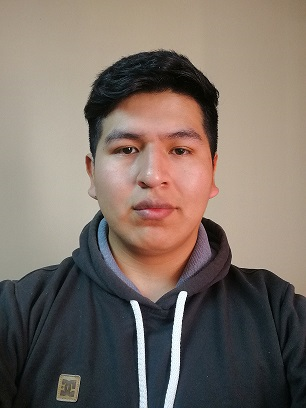
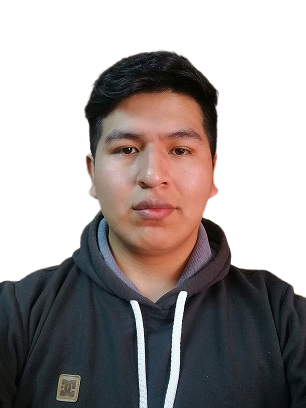
medium about

diff --git a/src/sections/AboutMe/AboutMe.jsx b/src/sections/AboutMe/AboutMe.jsx
@@ -13,7 +13,6 @@ import LinkedinSVG from "../../assets/svg/linkedin.svg";
 import CurriculumSVG from "../../assets/svg/pdf.svg";
 
 const AboutMeStyle = styled.div`
-  /* background-color: blue; */
   width: 100%;
   height: 400px;
   display: flex;
@@ -21,21 +20,20 @@ const AboutMeStyle = styled.div`
 `;
 
 const PerfilContentSvg = styled.div`
-  min-width: 350px;
-  /* height: 400px; */
+  border-top-right-radius: 50%;
+  border-top-left-radius: 50%;
   background-image: url(${PefilPhotoBG});
   background-repeat: no-repeat;
-  background-size: 450px;
-  background-position-x: -70px;
-  background-position-y: 10px;
+  background-size: 550px;
+  background-position-x: -130px;
+  background-position-y: -40px;
   display: flex;
   align-items: center;
   justify-content: center;
+  box-shadow: 0px 5px 10px rgba(275, 215, 0, 0.3);
 `;
-// quitar fondo ofi, centrear
 const PerfilSvg = styled.img`
-  /* background-color: yellow; */
-  height: 300px;
+  height: 100%;
 `;
 const IconAboutSVGStyle = styled.img`
   width: 20px;
